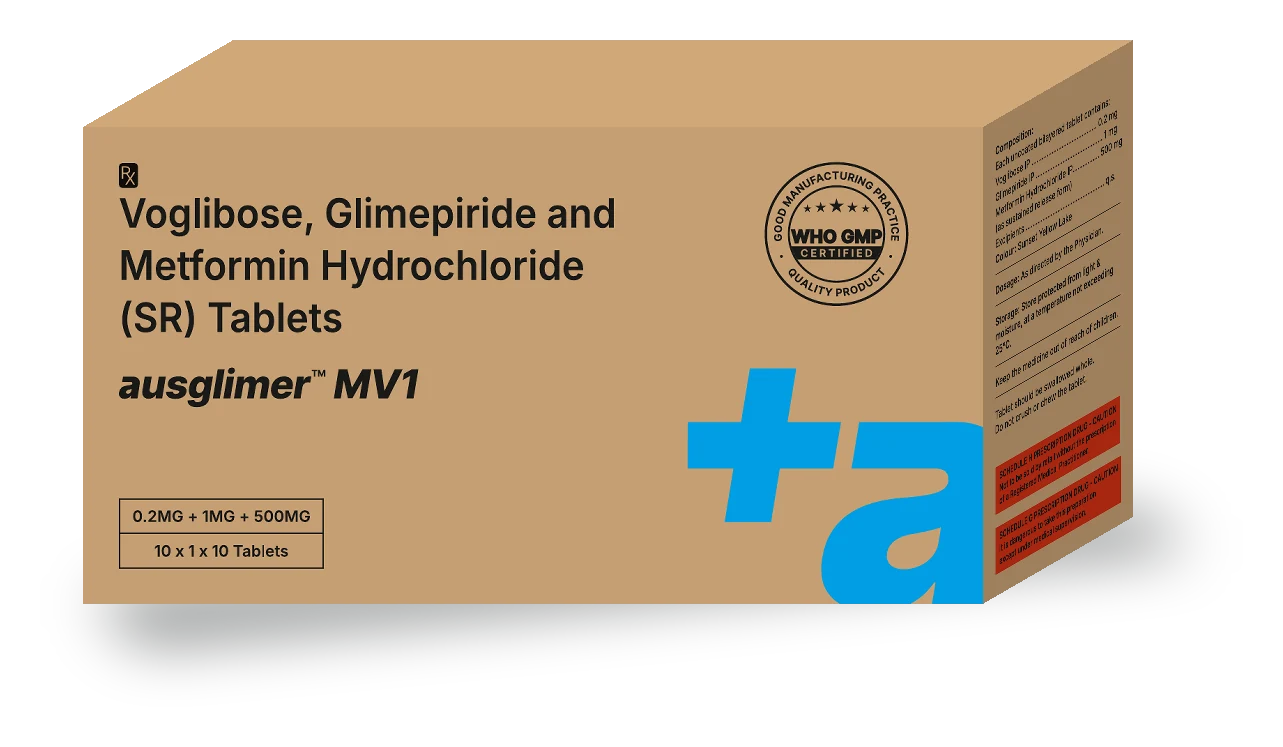
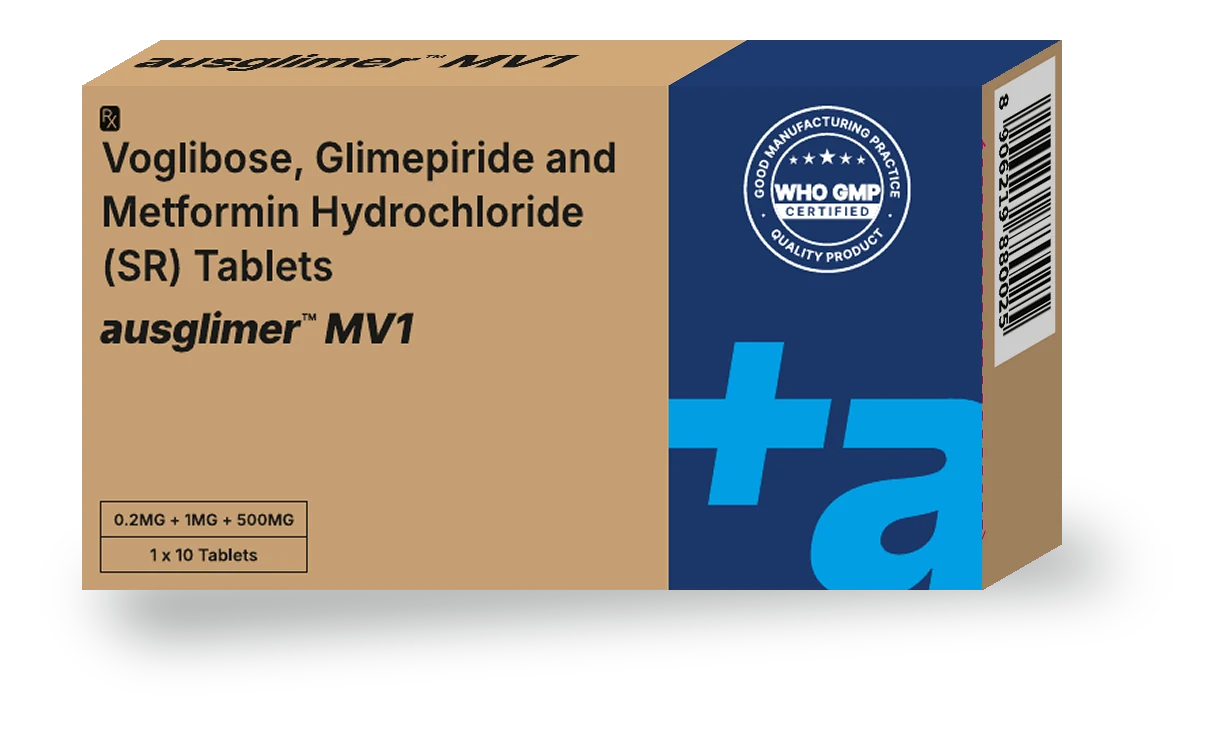
Pack shots from mono (unit) cartons for five Windlas products
AUSDAPA 10, AUSTENEPTIN M, AUSVILDA 50 and AUSGLIMER MV1/MV2 now show the
unit carton a patient receives (one strip) instead of the outer carton.
scripts/make-unit-packshot.py builds these from vertically stacked
dielines, locating panels from the carton's stated L x W x H.

Claude-Session: https://claude.ai/code/session_01YNdkZ2f25Pdtv5V1TQM9dx

Changed region(s): [[0.0611, 0.0299, 0.9158, 0.8381]]

diff --git a/scripts/make-unit-packshot.py b/scripts/make-unit-packshot.py
@@ -1,0 +1,52 @@
+"""Build a 3D pack shot from a vertically stacked mono/unit carton dieline (front, top, back, bottom in one column;
+side panels beside the back). Panels are located from the carton's stated L x W x H (mm) at 200 dpi.
+
+Usage: pdftoppm -r 200 -png -f <page> -l <page> carton.pdf /tmp/c
+       python3 scripts/make-unit-packshot.py /tmp/c-<page>.png <slug> <outdir> <L> <W> <H> [front_top_y|-] [L|R]
+Pass the front panel's top edge (px) when a printed pasting flap or uneven fold lines confuse detection, and L/R to
+choose the side panel beside the back. Writes <outdir>/<slug>.png/.webp; copy the .webp to public/packs/<GTIN>.webp.
+"""
+import importlib.util, os, sys
+import numpy as np
+from PIL import Image
+spec = importlib.util.spec_from_file_location("mp", os.path.join(os.path.dirname(os.path.abspath(__file__)), "make-packshots.py"))
+mp = importlib.util.module_from_spec(spec); spec.loader.exec_module(mp)
+
+src, slug, outdir = sys.argv[1], sys.argv[2], sys.argv[3]
+L, W, H = (float(v) for v in sys.argv[4:7])
+Y0 = int(sys.argv[7]) if len(sys.argv) > 7 and sys.argv[7] != "-" else None   # front top edge, measured on the dieline
+SIDE = sys.argv[8] if len(sys.argv) > 8 else None                               # "L" or "R": side panel beside the back
+PX = 200 / 25.4
+img = Image.open(src).convert("RGB"); a = np.asarray(img).astype(int)
+r, g, b = a[..., 0], a[..., 1], a[..., 2]
+printed = ((r > 150) & (r < 225) & (g > 110) & (g < 185) & (b > 60) & (b < 140) & (r - b > 45)) \
+    | ((b > 150) & (r < 90) & (g > 90)) | ((b > 70) & (r < 70) & (g < 90))   # kraft | brand blue | navy
+Lp, Wp, Hp = (round(v * PX) for v in (L, W, H))
+
+# main column: the x-range of width L with the most printed pixels
+cols = printed.mean(0)
+cs = np.concatenate([[0], np.cumsum(cols)])
+x0 = int(np.argmax(cs[Lp:] - cs[:-Lp])); x1 = x0 + Lp
+# vertical start from the fold lines: dark rules spanning most of the column. Pick the line y0 such that lines
+# follow at y0+H (front|top) and y0+H+W (top|back): a printed pasting flap above the front can't fool this.
+dark = (a[:, x0:x1].sum(2) < 200).mean(1) > 0.6
+lines = [y for y in range(1, len(dark)) if dark[y] and not dark[y - 1]]
+def near(y, tol=6): return any(abs(l - y) <= tol for l in lines)
+cands = [y for y in lines if near(y + Hp) and near(y + Hp + Wp)]
+if Y0 is not None:
+    y0 = Y0
+elif cands:
+    y0 = cands[0]
+else:
+    raise SystemExit(f"{slug}: no fold-line sequence matching H={H} W={W}; pass the front's top edge")
+front = (x0, y0, x1, y0 + Hp)
+top = (x0, y0 + Hp, x1, y0 + Hp + Wp)
+back = (x0, y0 + Hp + Wp, x1, y0 + 2 * Hp + Wp)
+# side panel: whichever side of the back is more printed
+left = printed[back[1]:back[3], x0 - Wp:x0].mean(); right = printed[back[1]:back[3], x1:x1 + Wp].mean()
+use_left = SIDE == "L" if SIDE else left >= right
+side = (x0 - Wp, back[1], x0, back[3]) if use_left else (x1, back[1], x1 + Wp, back[3])
+print(f"{slug}: column x {x0}-{x1}, front y {front[1]}-{front[3]}, side {'left' if use_left else 'right'} "
+      f"(coverage L {left:.2f} R {right:.2f}), front coverage {printed[front[1]:front[3], x0:x1].mean():.2f}")
+out = mp.render_3d(mp.crop_inset(img, front), mp.crop_inset(img, side), mp.crop_inset(img, top), slug, outdir)
+img.crop((front[0], front[1], front[2], front[3])).save(f"{outdir}/{slug}-check-front.png")
